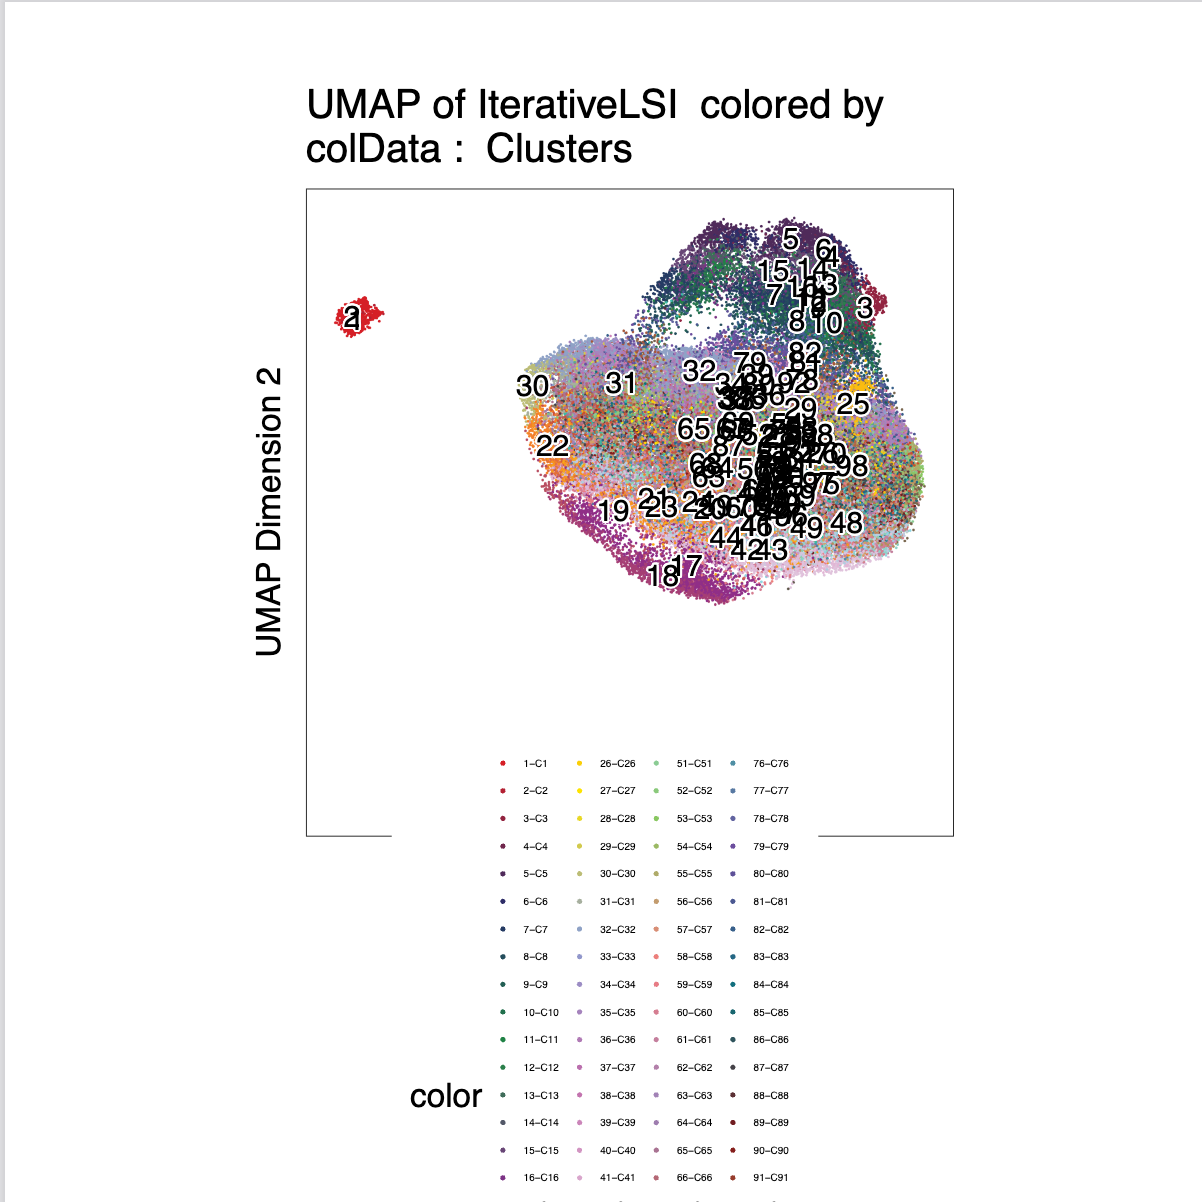
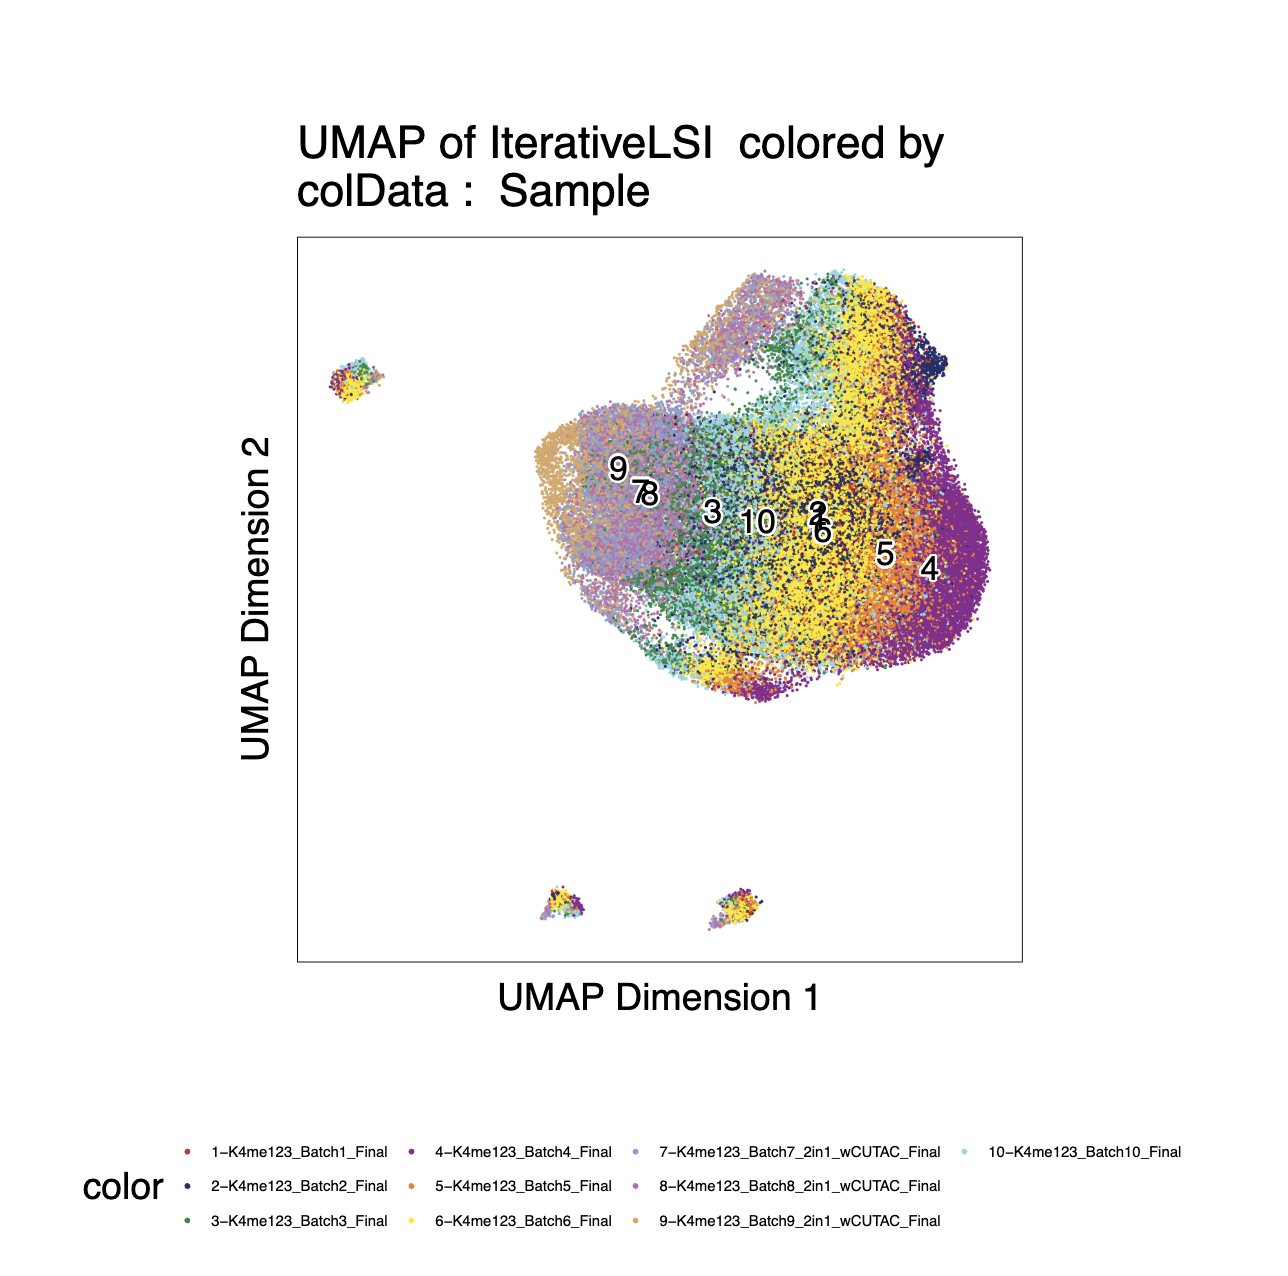
updated the weekly report

diff --git a/_includes/section22.html b/_includes/section22.html
@@ -19,8 +19,9 @@
     <p class="parameter-note"><strong>Tile Size:</strong> 5K base pairs (optimized for promoter-associated marks)</p>
     
     <p>Initial UMAP visualization of single cells reveals distinct cell populations with visible batch effects:</p>
-    <img src="results/section22/K4umap.png" style="width:600px;" alt="K4 single-cell UMAP plot before batch correction">
-    
+    <img src="results/section22/H3K4me123_fragment_density_plot.png" style="width:600px;" alt="K4 single-cell UMAP plot before batch correction">
+    <p> The density plot of the K4 data is shown below:</p>
+    <img src="results/section22/K4density.png" style="width:600px;" alt="K4 density plot">
     <p>After applying Harmony for batch effect removal, we observe improved cluster separation and biological structure:</p>
     <img src="results/section22/K4umap_harmony.png" style="width:600px;" alt="K4 single-cell UMAP plot after Harmony batch correction">
     
@@ -35,7 +36,8 @@
     
     <p>Single-cell UMAP projection before batch correction shows batch-associated clustering:</p>
     <img src="results/section22/K27umap.png" style="width:600px;" alt="K27 single-cell UMAP plot before batch correction">
-    
+    <p> The density plot of the K27 data is shown below:</p>
+    <img src="results/section22/H3K27me3_fragment_density_plot.png" style="width:600px;" alt="K27 density plot">
     <p>Harmony integration successfully removes batch effects while preserving biological variation:</p>
     <img src="results/section22/K27umap_harmony.png" style="width:600px;" alt="K27 single-cell UMAP plot after Harmony batch correction">
     
@@ -50,7 +52,8 @@
     
     <p>Pre-correction UMAP shows clear batch-specific clustering patterns:</p>
     <img src="results/section22/RNAPIIumap.png" style="width:600px;" alt="RNAPII single-cell UMAP plot before batch correction">
-    
+    <p> The density plot of the RNAPII data is shown below:</p>
+    <img src="results/section22/RNAPII_fragment_density_plot.png" style="width:600px;" alt="RNAPII density plot">
     <p>Post-Harmony visualization reveals underlying biological structure:</p>
     <img src="results/section22/RNAPIIumap_harmony.png" style="width:600px;" alt="RNAPII single-cell UMAP plot after Harmony batch correction">
     
@@ -69,7 +72,7 @@
     <h4>H3K27me3 Metacell Analysis</h4>
     
     <p>Metacell UMAP without batch correction shows strong batch-associated clustering:</p>
-    <img src="results/section21/K27/metacell_normalize_total_ntop20000nneighbor30_mindist0.1.png" style="width:600px;" alt="K27 metacell UMAP plot before batch correction">
+    <img src="results/section22/metacellK27.png" style="width:600px;" alt="K27 metacell UMAP plot before batch correction">
     
     <p>After Harmony integration, metacells reveal clearer biological structure:</p>
     <img src="results/section22/K27metacellumap_harmony.png" style="width:600px;" alt="K27 metacell UMAP plot after Harmony batch correction">
@@ -80,7 +83,7 @@
     <h4>RNA Polymerase II Metacell Analysis</h4>
     
     <p>Pre-correction metacell clustering demonstrates batch effects at the aggregate level:</p>
-    <img src="results/section21/RNAPII/metacell_normalize_total_ntop20000nneighbor30_mindist0.1.png" style="width:600px;" alt="RNAPII metacell UMAP plot before batch correction">
+    <img src="results/section22/metacellRNAPII.png" style="width:600px;" alt="RNAPII metacell UMAP plot before batch correction">
     
     <p>Post-Harmony metacell structure shows improved biological clustering:</p>
     <img src="results/section22/RNAPIImetacellumap_harmony.png" style="width:600px;" alt="RNAPII metacell UMAP plot after Harmony batch correction">

diff --git a/_includes/section23.html b/_includes/section23.html
@@ -1,0 +1,29 @@
+<h2>23. Week of October 15</h2>
+
+<h3>23.1 Meeting Objectives & Tasks</h3>
+<div class="summary-box">
+    <ul>
+        Add UMAP plots showing before and after batch effect removal, with batch labels.
+Generate a histogram plot to visualize the tile fragment distribution.
+Assign cluster annotations (metacell) following the approach used by Dereck in their paper -- imputed vs raw genescore
+    </ul>
+</div>
+
+<h3> 23.2 UMAP plots</h3>
+Updataed in last week report.
+
+<h3> 23.3 Tile fragment distribution</h3>
+Updataed in last week report.
+
+<h3> 23.4 Cluster annotations</h3>
+For derek's paper, they used the imputated genescore to assign cluster annotations. 
+1. add a list of marker genes for each cell type.
+2. get the imputed genescore for each marker gene.
+3. plot each imputed genescore.
+4. check the increase/decrease of the imputed genescore for each cell type.
+5. manually assign the cluster annotations based on the imputed genescore.
+
+Here is one example of the imputed genescore plot for the marker gene MECOM.
+<img src="results/section23/K4markgeneMECOMplot.png" style="width:600px;" alt="K4 marker gene MECOM plot">
+Eventually, we will have a new cluster annotaion plot
+<img src="results/section23/H3K4me123_UMAP_NewClusters.png" style="width:600px;" alt="K4 marker gene MECOM plot">
